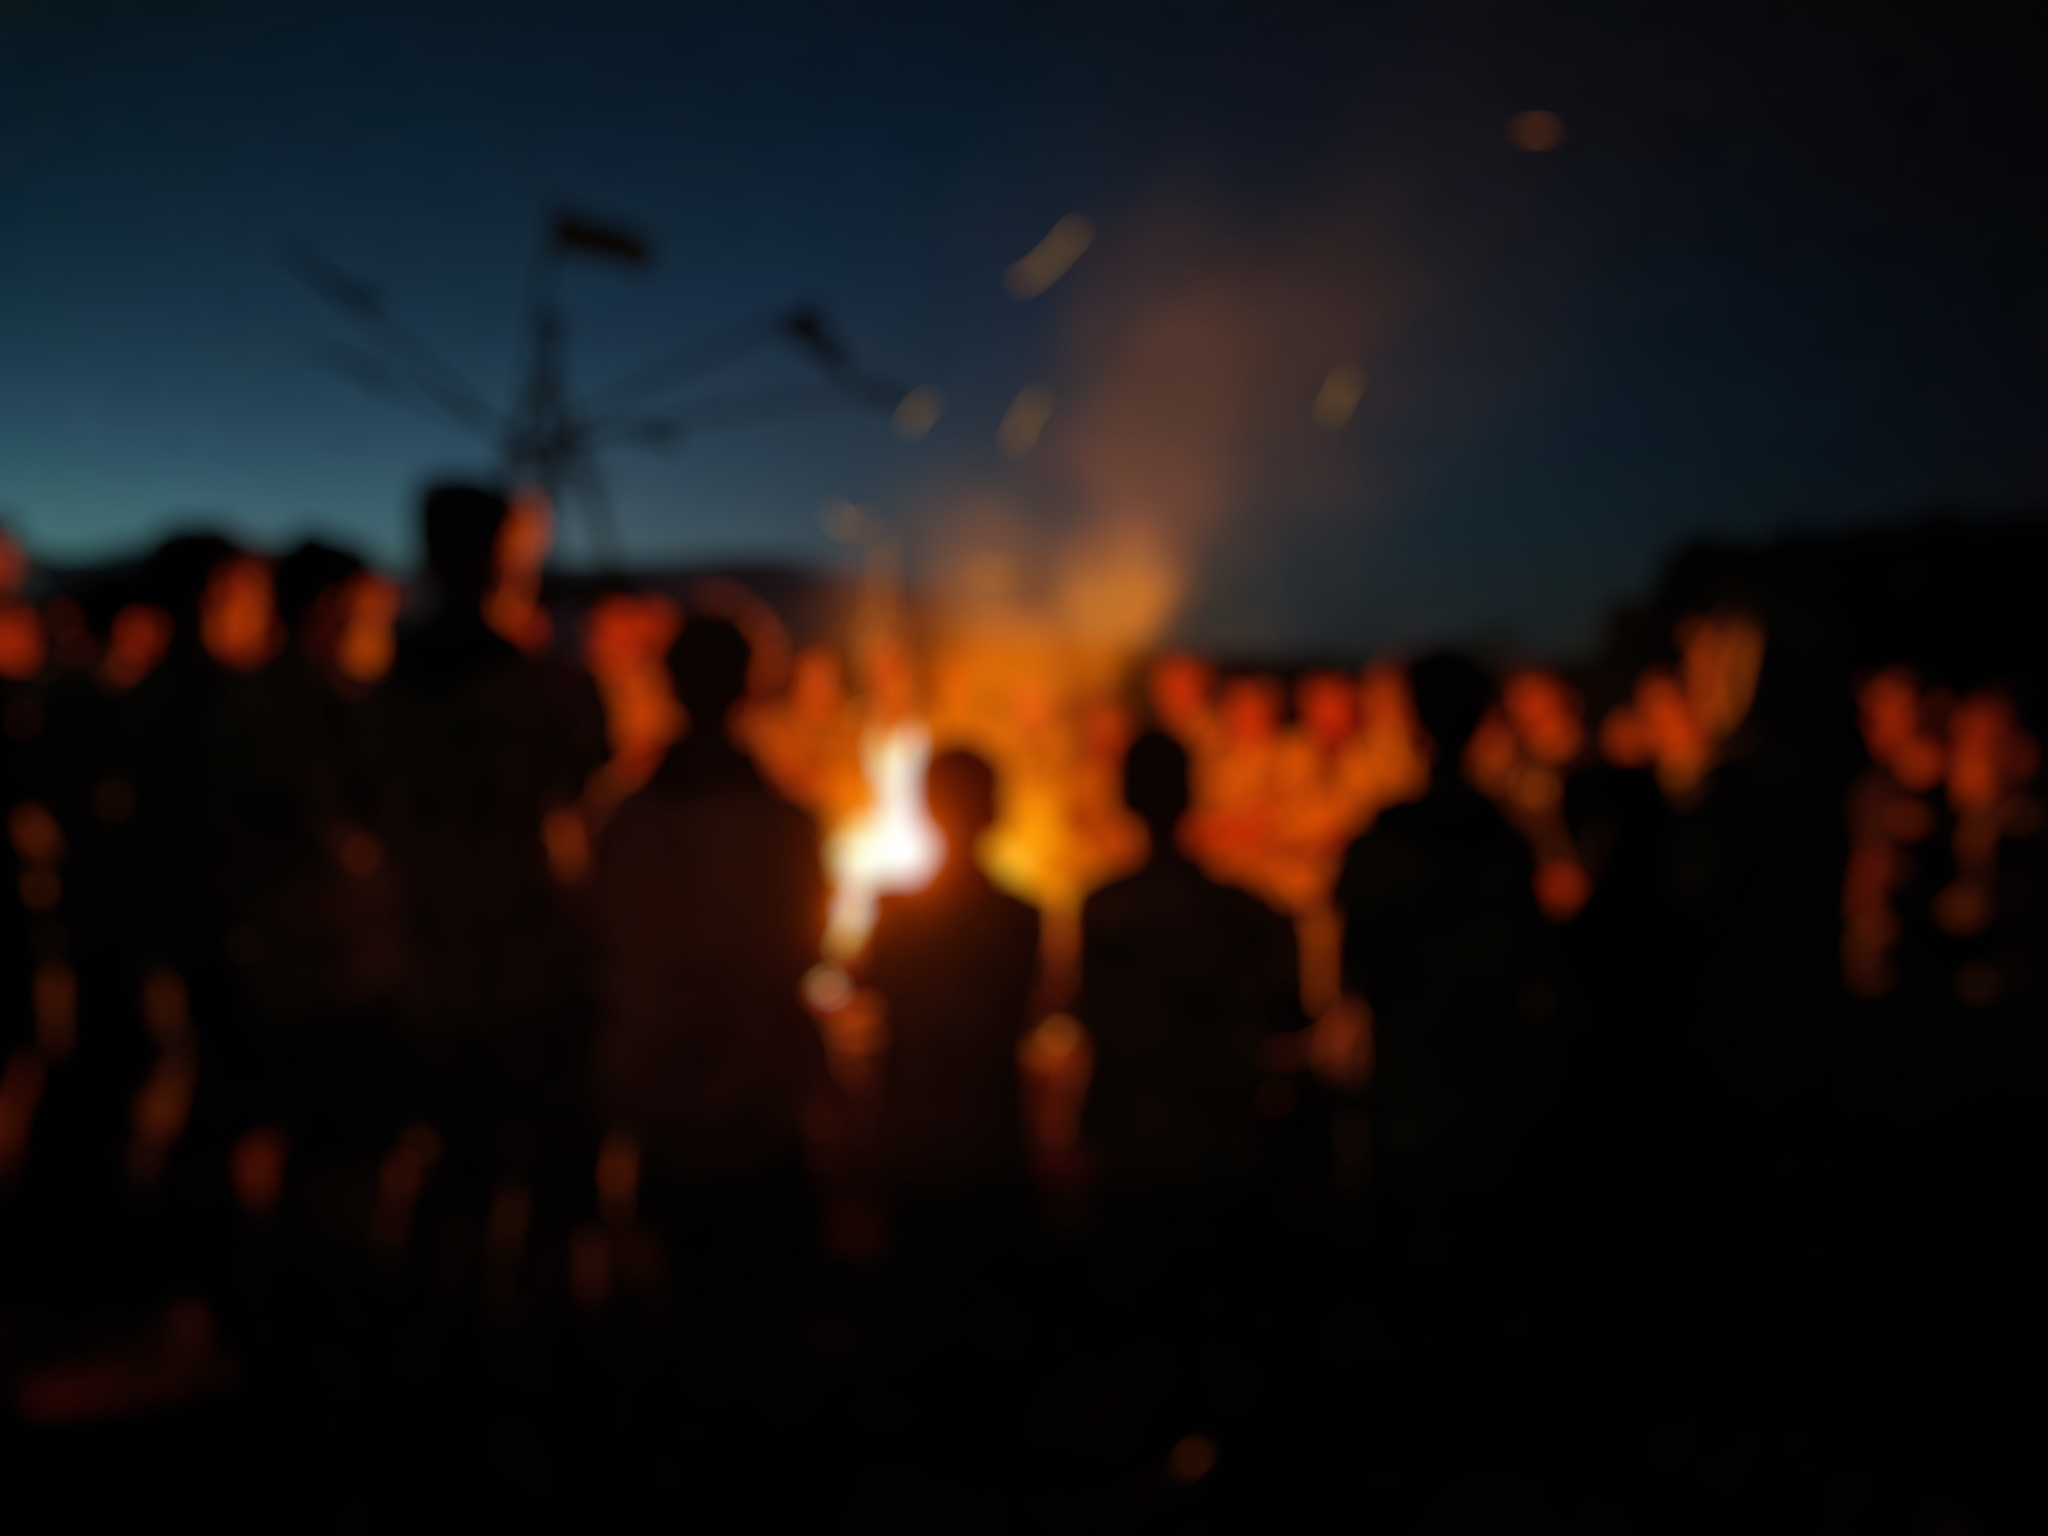
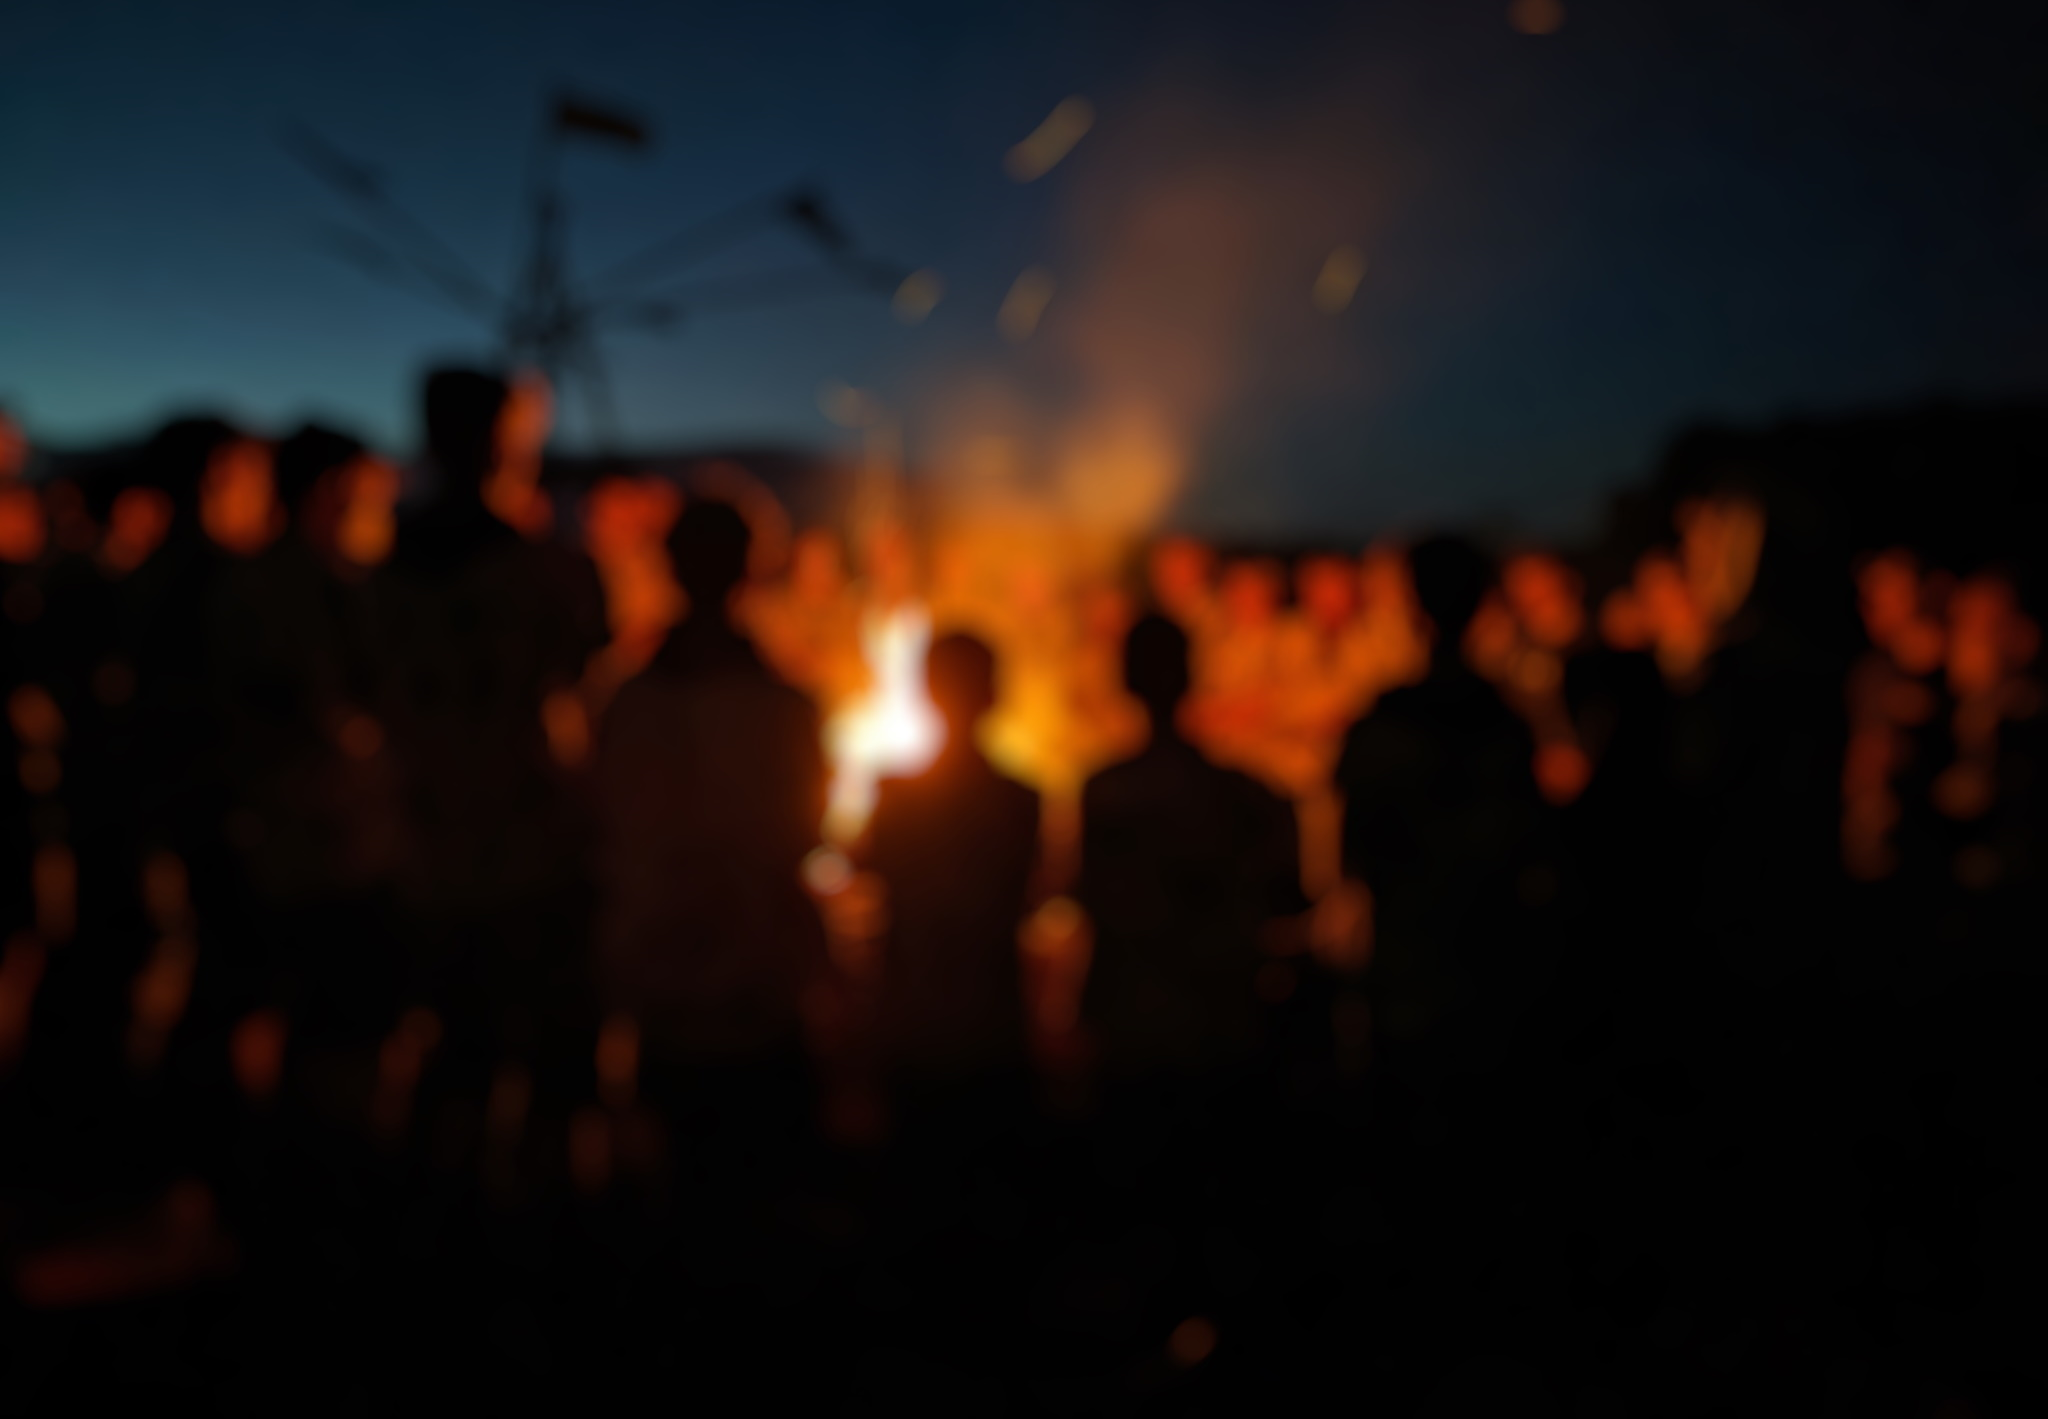
Add call to action buttons

diff --git a/files/style.css b/files/style.css
@@ -101,12 +101,34 @@ nav > a img {
 /* SHOWCASE */
 
 .showcase {
+  display: flex;
+  flex-direction: row;
+  justify-content: center;
+  align-items: center;
   height: 100vh;
-  background: url(../img/kampvuur.jpg) no-repeat center center;
+  padding: 140px 40px 40px 40px;
+  background: url(../img/kampvuur.jpg) no-repeat center 0;
+  font-size: 14px;
   background-size: cover;
-  text-align: center;
   color: #ffffff;
-  font-family: "Playfair Display SC", serif;
+}
+
+.showcase .action {
+  width: 230px;
+  margin: 10px;
+  padding: 8px;
+  border: 1px solid #fff;
+  border-radius: 100px;
+  font-size: 16px;
+  text-align: center;
+  color: #fff;
+  filter: drop-shadow(0 0 0.3em #000);
+}
+
+.showcase .action.highlighted {
+  mix-blend-mode: screen;
+  background: #fff;
+  color: #000;
 }
 
 /* SECTIONS */
@@ -142,5 +164,9 @@ nav > a img {
 
   header.scrolled nav ul {
     margin-left: 40px;
+  }
+
+  .showcase {
+    flex-direction: column;
   }
 }

diff --git a/index.html b/index.html
@@ -29,7 +29,10 @@
       </ul>
     </nav>
   </header>
-  <section class="showcase"></section>
+  <section class="showcase">
+    <a href="/sjorring" class="action highlighted">Onze activiteiten</a>
+    <a href="/inschrijven" class="action">Lid worden</a>
+  </section>
   <section class="slideshow"></section>
   <section class="takken"></section>
   <section class="uniform"></section>
